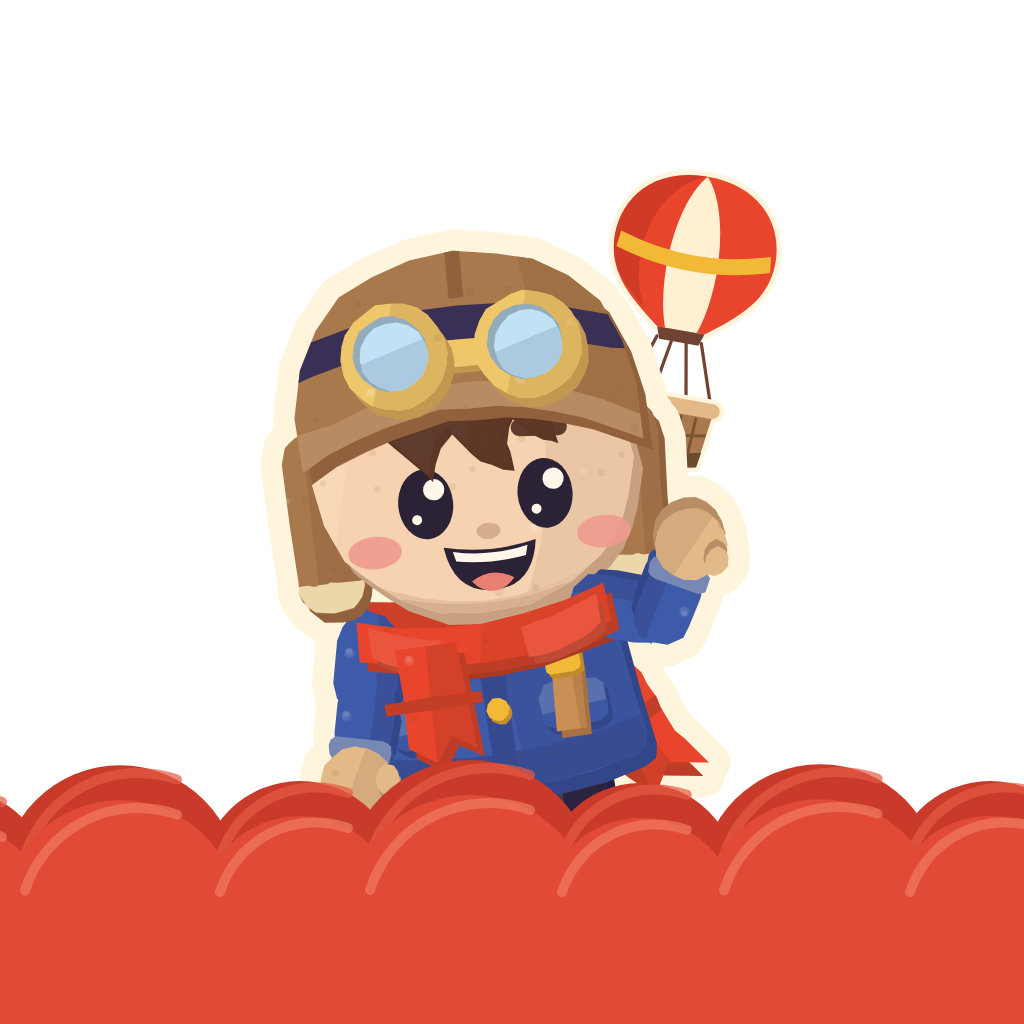
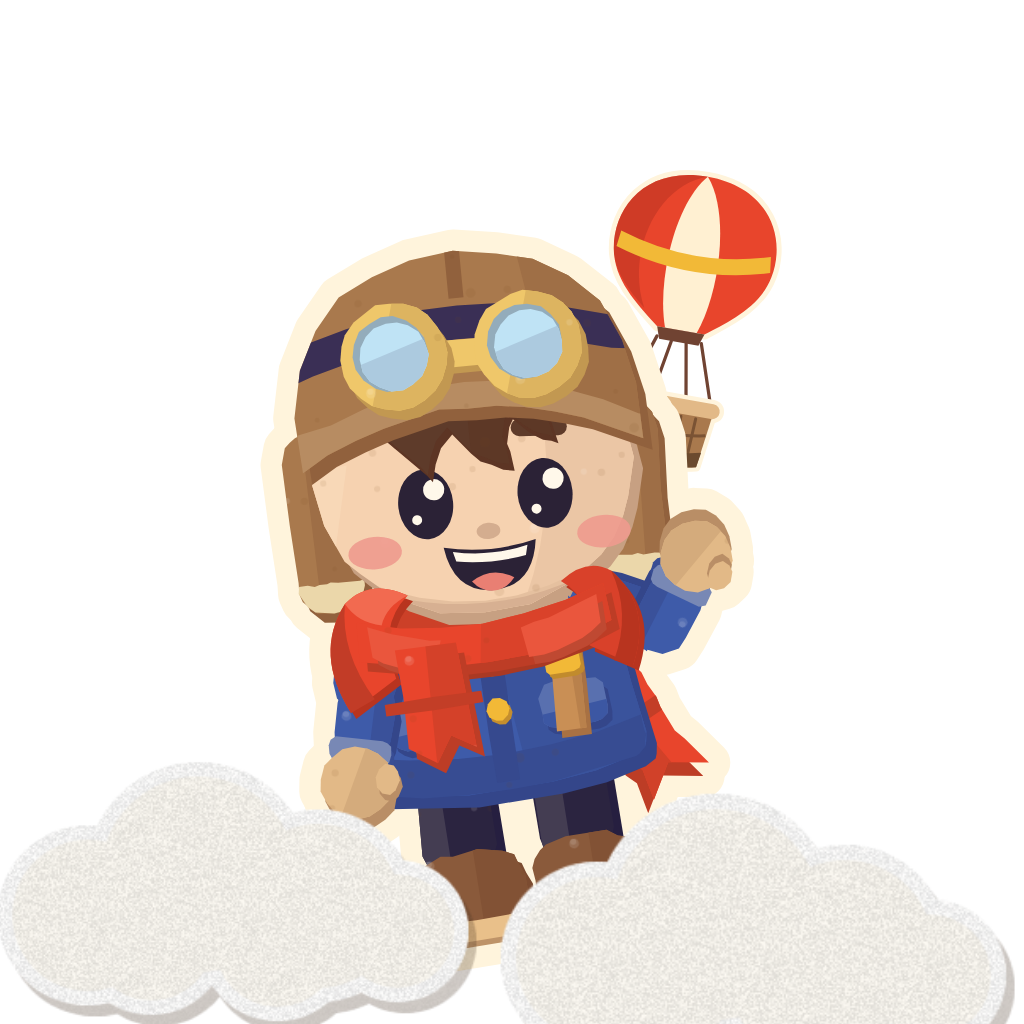
Ícono: bufanda con volumen que sube a los dos lados del cuello (más del izquierdo), mano del saludo un poco más afuera y vuelven las nubes blancas de papel
Claude-Session: https://claude.ai/code/session_017FkcQpDzkf2gnNUK4w8AxS

Changed region(s): [[0.0, 0.7188, 1.0, 1.0], [0.5312, 0.4688, 0.75, 0.6562], [0.2812, 0.5625, 0.4062, 0.7188]]

diff --git a/scripts/iconos/icono.html b/scripts/iconos/icono.html
@@ -12,7 +12,12 @@ const c=document.getElementById('c'); c.style.width=c.style.height=S+'px';
 const H=heroFor('nilo','base');
 // pose del ícono: 'saludo' = brazo derecho arriba y afuera, bufanda cayendo por detrás; 'juego' = Nilo quieto como en los diálogos
 const pose=(s,P)=>s.replace(/<g data-j="(\w+)"([^>]*?)transform="([^"]*)"/g,(m,j,a,t)=>P[j]!=null?`<g data-j="${j}"${a}transform="${P[j]}"`:m);
-const SALUDO=pose(H.wave[3],{aU:'translate(79.2 59.97) rotate(-72)',aUf:'translate(0 10.6) rotate(-78)',ht1:'translate(71 60.2) rotate(55)',ht2:'translate(14.6 0) rotate(10)'});
+// cuello de la bufanda con volumen: la vuelta sube a los dos lados de la cara (más a la izquierda), por delante de las orejeras
+const CL='M36.2 71 Q31.6 60.5 38 53.2 Q42.6 49.6 48.4 53.4 Q42.6 57.6 44.4 66.6Z', CR='M83.2 70.4 Q87.8 61.4 82 54.6 Q78.4 51.8 73.6 55 Q78.4 58.8 76.6 66.2Z';
+const collar=s=>{let n=0;return s.replace(/<g data-j="hwf"/g,m=>{n++;return (n%2? `<path d="${CL}"/><path d="${CR}"/>` :
+  `<path d="${CL}" fill="#B8341F" transform="translate(.7 1.1)"/><path d="${CL}" fill="#E8452C"/><path d="M38 53.2 Q42.6 49.6 48.4 53.4 Q44.6 54.6 43.4 57.6 Q39.6 56.6 38 53.2Z" fill="#F26A50"/><path d="M36.2 71 Q31.6 60.5 38 53.2 Q36 61 40.4 69.4Z" fill="#C23C27"/>`+
+  `<path d="${CR}" fill="#B8341F" transform="translate(.7 1.1)"/><path d="${CR}" fill="#D9412A"/><path d="M83.2 70.4 Q87.8 61.4 82 54.6 Q84.2 62 80.2 69.2Z" fill="#B8341F"/>`)+m;});};
+const SALUDO=collar(pose(H.wave[3],{aU:'translate(79.2 59.97) rotate(-64)',aUf:'translate(0 10.6) rotate(-80)',ht1:'translate(71 60.2) rotate(55)',ht2:'translate(14.6 0) rotate(10)'}));
 const JUEGO=H.idle[0];
 const POSE=(q.get('pose')||'saludo')==='juego'?JUEGO:SALUDO;
 let cloud=''; try{cloud=P.artThumb('nube');}catch(e){}
@@ -30,8 +35,8 @@ const NX=L.nx??-150, NY=L.ny??150, NW=L.nw??1060, BX=L.bx??610, BY=L.by??30, BW=
 const clouds=(y,col,hi)=>{const C=[[-40,70],[120,95],[300,80],[470,100],[640,78],[820,96],[990,80]];return `<svg viewBox="0 0 1024 1024" width="${S}" height="${S}" style="position:absolute;inset:0"><g transform="translate(0 ${y})">${C.map(([x,r])=>`<circle cx="${x}" cy="${r*.2}" r="${r*1.25}" fill="${col}"/>`).join('')}<rect x="-50" y="30" width="1124" height="400" fill="${col}"/>${C.map(([x,r])=>`<path d="M${x-r} ${r*.2-r*.3} A${r*1.25} ${r*1.25} 0 0 1 ${x+r*.6} ${r*.2-r*1.1}" stroke="${hi}" stroke-width="10" fill="none" stroke-linecap="round" opacity=".7"/>`).join('')}</g></svg>`;};
 let h='';
 if(mode!=='fg') h+=BG;
-if(mode==='icon'){ h+=bal(BX,BY,BW,10,''); h+=nilo(NX,NY,NW,L.rot??-9,POSE); h+=clouds(950,'#C93A2B','#E55A45')+clouds(990,'#E04A36','#F07A60');}
+if(mode==='icon'){ h+=bal(BX,BY,BW,10,''); h+=nilo(NX,NY,NW,L.rot??-9,POSE); h+=img(cloud,-160,820,600,1)+img(cloud,480,860,700,1);}
  // Android adaptativo: las nubes van en el fondo
-if(mode==='fg'){ h+=bal(610,165,200,10,''); h+=nilo(90,210,780,-9,POSE); h+=clouds(865,'#C93A2B','#E55A45')+clouds(900,'#E04A36','#F07A60');} // Android adaptativo: todo dentro del círculo seguro
+if(mode==='fg'){ h+=bal(610,165,200,10,''); h+=nilo(90,210,780,-9,POSE); h+=img(cloud,-40,740,540,1)+img(cloud,460,770,580,1);} // Android adaptativo: todo dentro del círculo seguro
 c.innerHTML=h; document.title='ok';
 </script></body></html>
